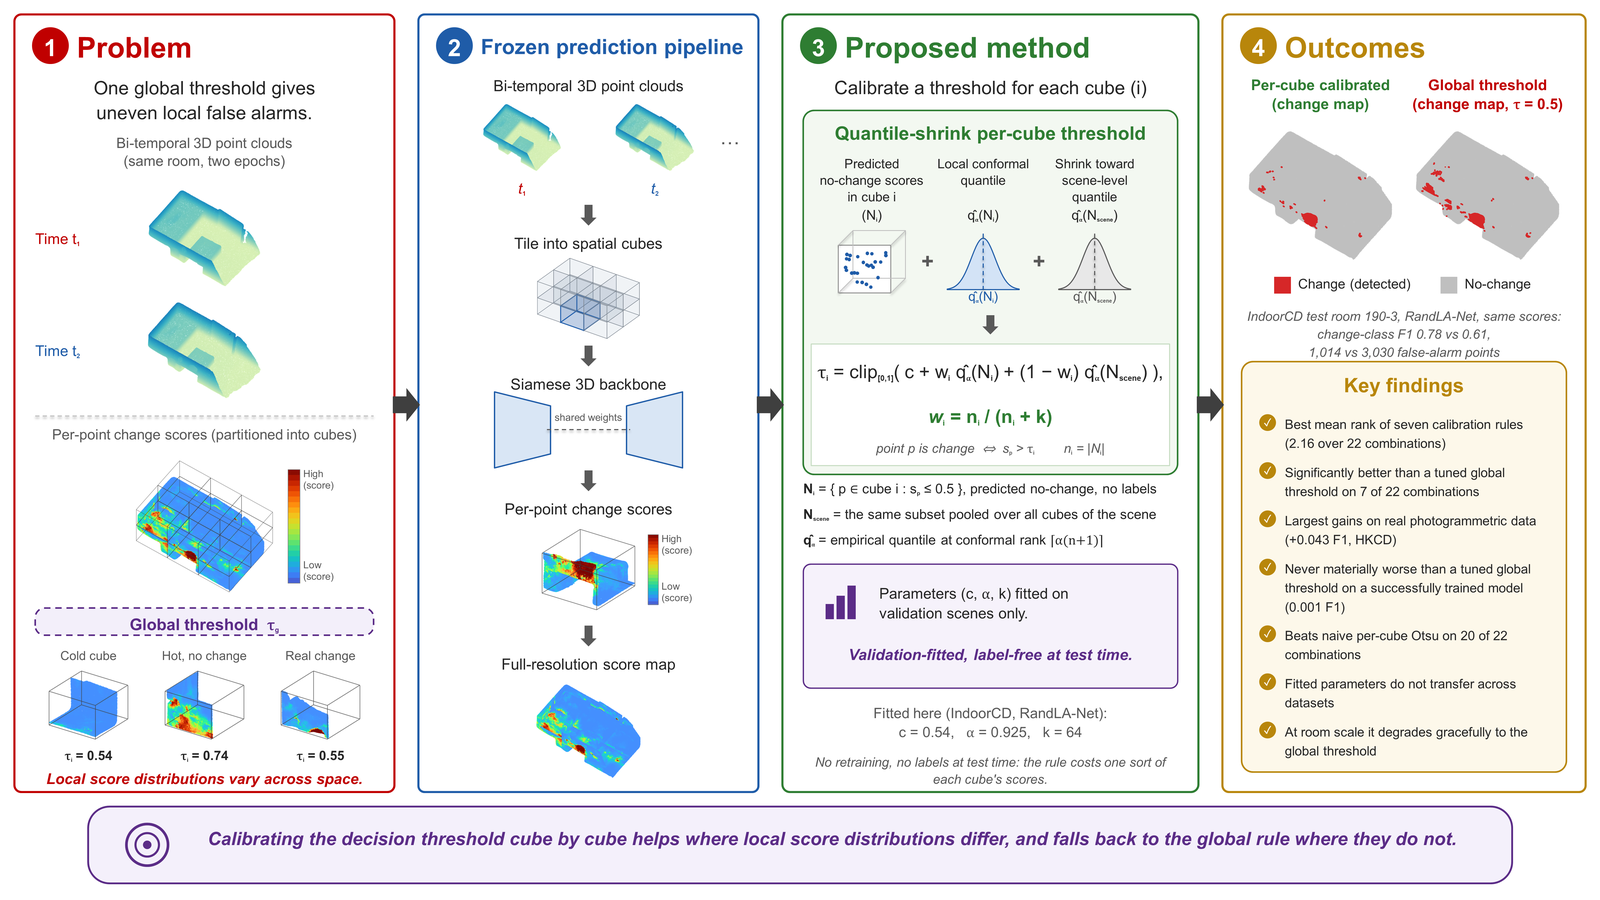
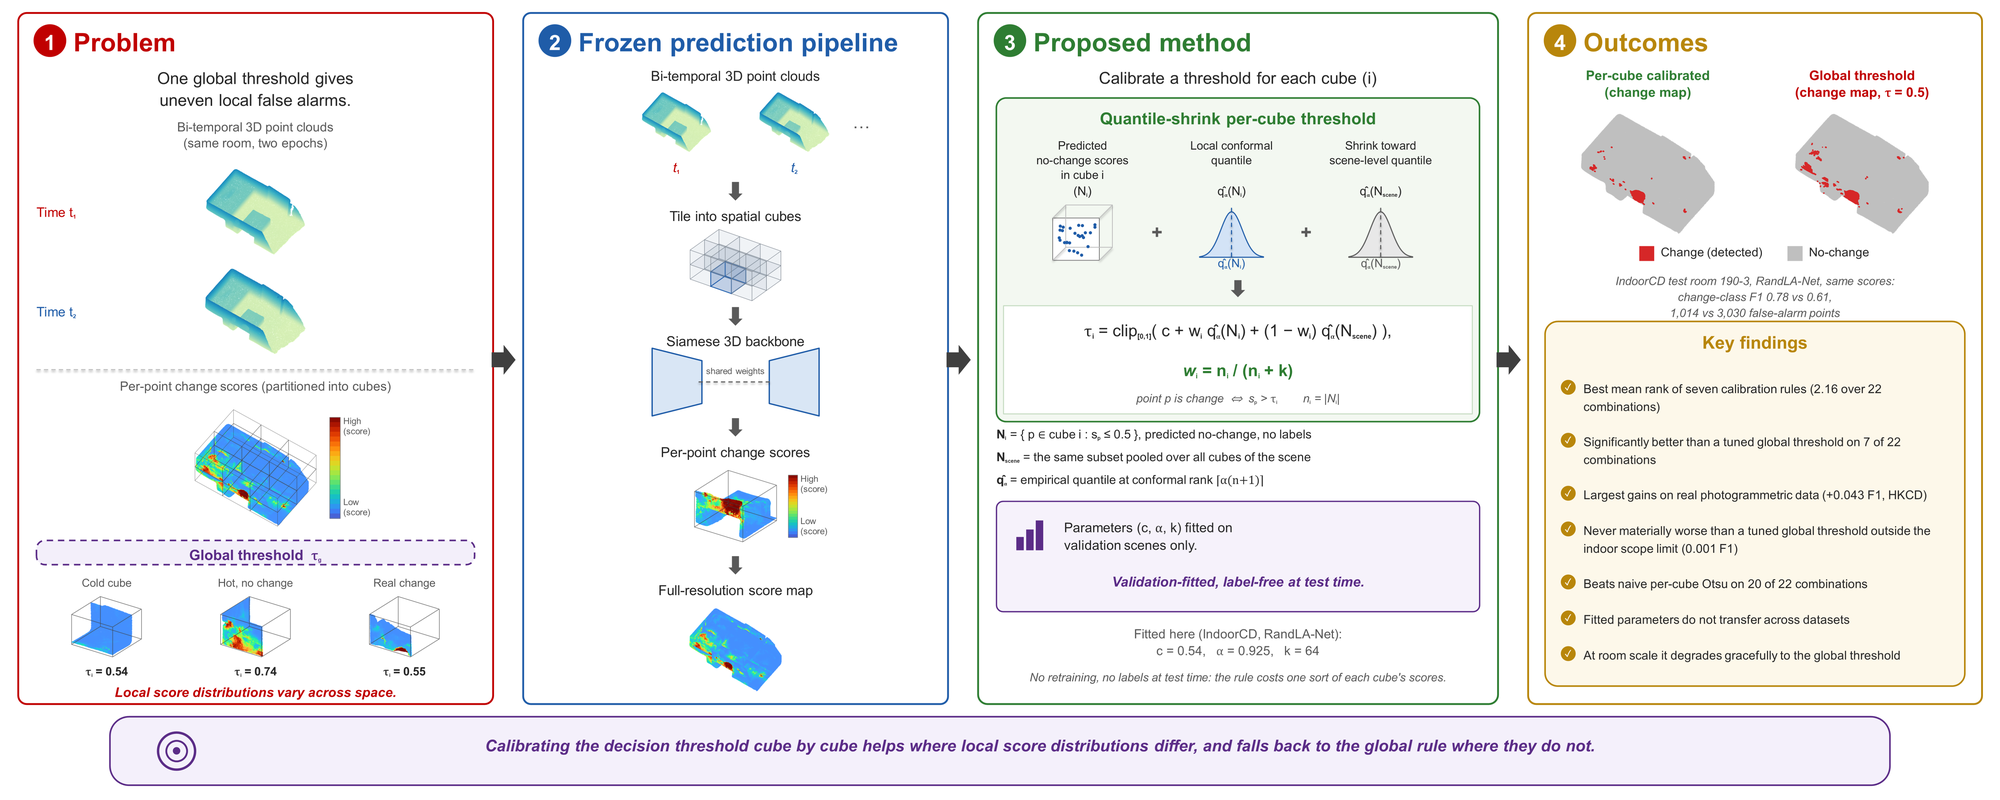
Align author order across metadata, refresh README for the sensitivity study and 2.5:1 graphical abstract

diff --git a/README.md b/README.md
@@ -7,8 +7,8 @@ Code, calibration outputs and result tables for the paper:
 > Under review. `[DOI to be added on acceptance]`
 
 Deep Siamese networks for bi-temporal 3D change detection produce a per-point change
-score, and then almost universally compare it against **one global threshold** — usually
-0.5 — even though local score distributions vary strongly across a scene. This repository
+score, and then almost universally compare it against **one global threshold**, usually
+0.5, even though local score distributions vary strongly across a scene. This repository
 contains the first systematic study of that decision, benchmarking **seven threshold
 calibration rules** across **six models**, **four datasets** and **22 model-dataset
 combinations**, plus the proposed per-cube rule.
@@ -17,7 +17,7 @@ combinations**, plus the proposed per-cube rule.
 
 *IndoorCD test room `190-3`, frozen RandLA-Net predictions. Thresholding each cube at its
 own shrunk conformal quantile instead of the global 0.5 raises change-class F1 from 0.611
-to 0.780 and cuts false alarms from 3,030 to 1,014 points. No panel is a mockup — every
+to 0.780 and cuts false alarms from 3,030 to 1,014 points. No panel is a mockup; every
 one is rendered from the released artefacts by `paper/graphical_abstract/`. This is a
 showcase scene; for the benchmark-wide picture, which is a rank win rather than a uniform
 one, see [Results](#results-at-a-glance).*
@@ -45,7 +45,7 @@ involved at test time; the rule costs one sort of each cube's scores.
 
 As `k -> infinity` every cube collapses onto the scene quantile, so the tuned global
 threshold is a limiting case of this family. That is why the honest headline is a
-**rank win, not a uniform win** — see [Results](#results-at-a-glance).
+**rank win, not a uniform win**; see [Results](#results-at-a-glance).
 
 No Chamfer distance is used anywhere. Only model output scores and logits.
 
@@ -76,7 +76,7 @@ archive plus this code. Nothing requires a GPU unless you retrain from scratch.
 Reproducing the results needs the prediction archive, not the raw datasets.
 
 ```bash
-git clone https://github.com/<user>/quantile-shrink-3dcd.git && cd quantile-shrink-3dcd
+git clone https://github.com/Amanzunge/quantile-shrink-3dcd.git && cd quantile-shrink-3dcd
 ```
 
 ```bash
@@ -140,6 +140,7 @@ python src/plot_paper_v2.py
 | `build_scope_limit_table.py` | `scope_limit_table.csv`, the IndoorCD scale floor |
 | `build_ablation_tables.py` | `ablation_fps.csv`, `ablation_cube.csv`, `ablation_cube_geometry.csv` |
 | `estimator_autopsy.py` | `estimator_autopsy.csv`, split-half headroom analysis |
+| `sensitivity.py` | `sensitivity_table.csv`, how sharply the result depends on `(c, alpha, k)` |
 | `plot_paper_v2.py`, `plot_ablations.py` | all figures in `results/` |
 
 ---
@@ -219,6 +220,7 @@ src/
   transfer_v2.py        cross-dataset parameter transfer
   paper_stats.py        paired bootstrap CIs, Wilcoxon tests, IoU table
   estimator_autopsy.py  split-half headroom, oracle-threshold regression
+  sensitivity.py        flatness of the validation optimum, shared-parameter check
   plot_*.py             every figure in the paper
 predictions/<dataset>/<model>/       best.pt, per-scene .npz, run logs
 calibration/<dataset>/<model>/       per-scene tau and metrics, five standard rules
@@ -265,20 +267,21 @@ Reported as mean per-scene change-class F1 on test scenes.
 - **Against rules that do not tune a threshold on validation data** (fixed 0.5, Platt,
   isotonic, per-cube Otsu): 17 to 19 wins of 22.
 - **Against the tuned global threshold**: 8 wins, 12 ties, 2 losses at a 0.002 tie band.
-  Wilcoxon p = 0.079 over the benchmark — a trend, **not** a significant global win. Seven
+  Wilcoxon p = 0.079 over the benchmark: a trend, **not** a significant global win. Seven
   individual combinations are significantly positive by paired bootstrap, concentrated on
   the real photogrammetric data (HKCD ICP +0.043, pooled change-IoU 0.457 -> 0.536;
   HKCD SiamGCN +0.021) and on miscalibrated models (MS SiamGCN +0.023, MS KPConv +0.012).
-- **Per-cube Otsu collapses** where naive local adaptivity is dangerous — change-sparse
+- **Per-cube Otsu collapses** where naive local adaptivity is dangerous, on change-sparse
   cubes whose histogram it splits anyway (up to -0.29 F1). Local thresholds need both the
   validation-fitted offset and the shrinkage.
 - **Parameters do not transfer** across datasets: 15 of 16 source-target-model triples
   land below the target's own tuned global threshold. This is a per-dataset procedure
   needing a labelled validation split, not a transferable constant.
-- **The ceiling is characterised, not just the method.** Per-cube oracle headroom is real
-  under split-half validation (66-99% retained on HKCD) and grows as cubes shrink
+- **The ceiling is characterized, not just the method.** Per-cube oracle headroom is real
+  under split-half validation (48-73% retained on LD, 68-98% on MS, 66-102% on HKCD,
+  84-102% on IndoorCD) and grows as cubes shrink
   (LD PointNet +0.037 / +0.056 / +0.111 at 75 / 50 / 25 m), yet label-free per-cube
-  statistics predict the oracle threshold poorly (R^2 <= 0.4). IndoorCD marks the scale
+  statistics predict the oracle threshold poorly (R^2 <= 0.43). IndoorCD marks the scale
   floor where the per-cube population collapses (median 7 cubes per scene, 78% of cubes
   holding no change at all) and local calibration stops paying.
 
@@ -291,9 +294,9 @@ own licence.
 
 | Dataset | Source | Notes |
 |---|---|---|
-| Urb3DCD-V2 (LD + MS) | IEEE DataPort, de Gélis et al. — [10.3390/rs13132629](https://doi.org/10.3390/rs13132629) | login-gated; one archive holds both variants |
-| HKCD | Zhan et al., PGN3DCD — [10.1109/TGRS.2024.3436854](https://doi.org/10.1109/TGRS.2024.3436854) | ~128M annotated points, ~8.1 km² of Hong Kong |
-| IndoorCD | Ciceklidag et al., IEEE DataPort — [10.21227/vhfk-vq69](https://doi.org/10.21227/vhfk-vq69) | converted to PLY by `src/convert_indoorcd.py` |
+| Urb3DCD-V2 (LD + MS) | IEEE DataPort, de Gélis et al., [10.3390/rs13132629](https://doi.org/10.3390/rs13132629) | login-gated; one archive holds both variants |
+| HKCD | Zhan et al., PGN3DCD, [10.1109/TGRS.2024.3436854](https://doi.org/10.1109/TGRS.2024.3436854) | ~128M annotated points, ~8.1 km² of Hong Kong |
+| IndoorCD | Ciceklidag et al., IEEE DataPort, [10.21227/vhfk-vq69](https://doi.org/10.21227/vhfk-vq69) | converted to PLY by `src/convert_indoorcd.py` |
 
 The frozen splits under `data/splits/` are what make runs comparable; HKCD uses the
 official split published with the dataset, and the IndoorCD split is generated once by
@@ -309,9 +312,9 @@ Analysis is CPU-only and runs on any machine. Python 3.10, packages pinned in
 Training used two environments, both at the identical 60-epoch recipe:
 
 - **National Platform for Artificial Intelligence**, Government Data Centre, Kragujevac,
-  Serbia — NVIDIA A100-SXM4 40 GB, one GPU per job, NGC PyTorch 23.08 container, SLURM.
+  Serbia. NVIDIA A100-SXM4 40 GB, one GPU per job, NGC PyTorch 23.08 container, SLURM.
   All 66 ablation runs, ~77 hours wall clock with heavy concurrency.
-- Cloud GPU instances with NVIDIA Tesla T4 16 GB — the 19 main benchmark runs,
+- Cloud GPU instances with NVIDIA Tesla T4 16 GB, for the 19 main benchmark runs,
   1 to 18 hours per run (median ~6).
 
 ---
@@ -321,7 +324,7 @@ Training used two environments, both at the identical 60-epoch recipe:
 ```bibtex
 @article{seljmesi2026quantileshrink,
   title   = {Distribution-Free Per-Cube Threshold Calibration for Deep 3D Point Cloud Change Detection},
-  author  = {{\v S}eljme{\v s}i, Dalibor and Brtka, Vladimir and Ili{\'c}, Velibor and
+  author  = {{\v S}eljme{\v s}i, Dalibor and Ili{\'c}, Velibor and Brtka, Vladimir and
              Dobrilovi{\'c}, Dalibor and Brtka, Eleonora and Ognjenovi{\'c}, Vi{\v s}nja},
   year    = {2026},
   note    = {Under review}
